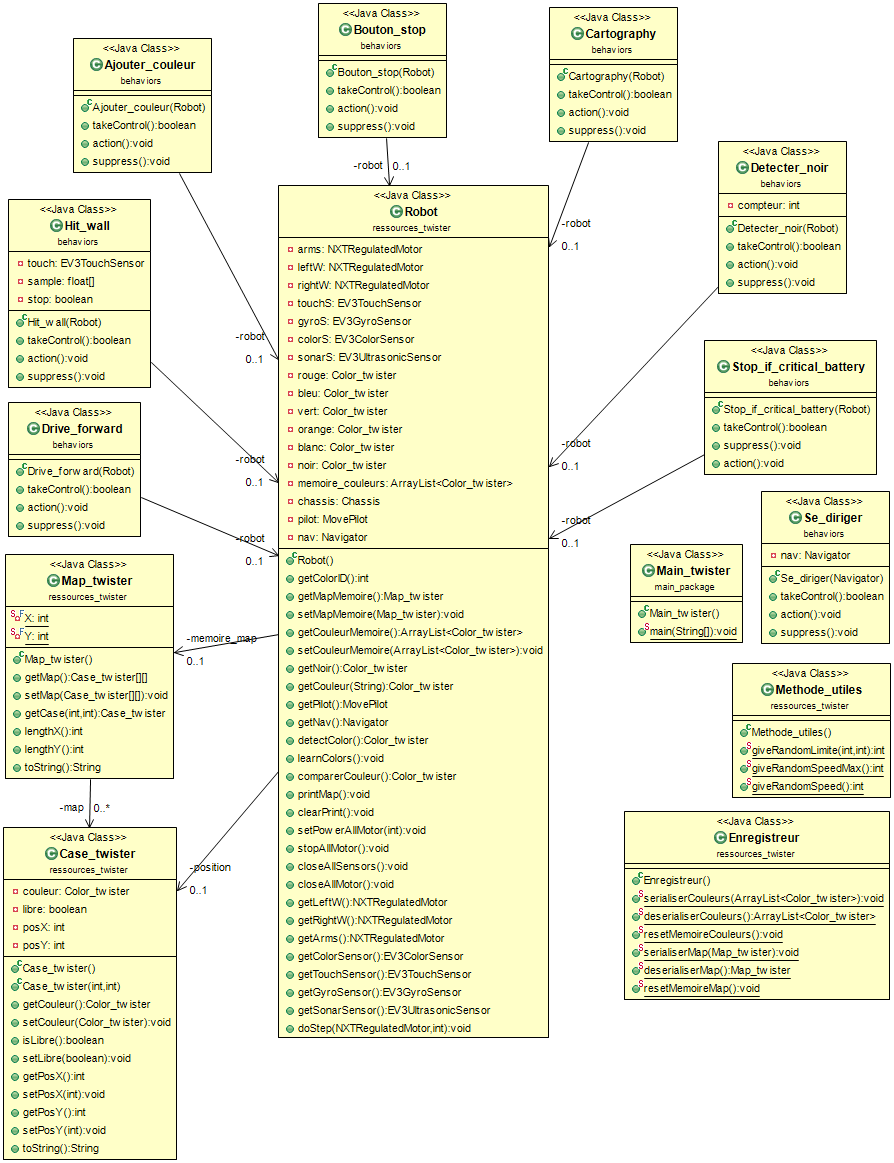
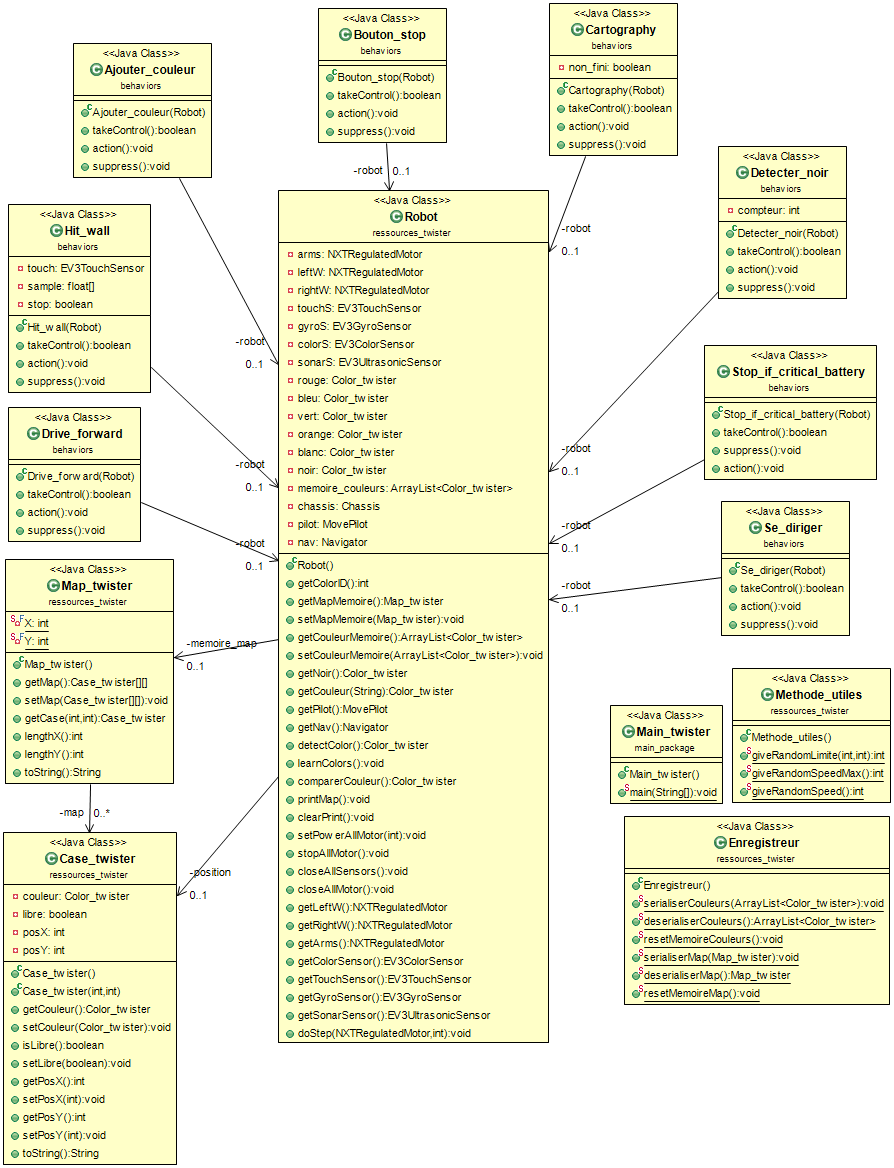
modif uml et comp se diriger

diff --git a/src/behaviors/Se_diriger.java b/src/behaviors/Se_diriger.java
@@ -3,15 +3,14 @@ package behaviors;
 import lejos.robotics.subsumption.Behavior;
 import lejos.hardware.Button;
 import lejos.hardware.lcd.LCD;
-import lejos.robotics.navigation.Navigator;
 import ressources_twister.Robot;
 
 public class Se_diriger implements Behavior {
 
-	private Navigator nav;
+	private Robot robot;
 	
-	public Se_diriger(Navigator n) {
-		this.nav = n;
+	public Se_diriger(Robot robot) {
+		this.robot=robot;
 	}
 	@Override
 	public boolean takeControl() {
@@ -22,17 +21,17 @@ public class Se_diriger implements Behavior {
 	@Override
 	public void action() {
 		for (int i=20; i<1000; i+=20){
-			nav.goTo(i,i);
+			this.robot.getNav().goTo(i,i);
 		}
 		
 		LCD.drawString("Arrive !",0,3);
-		//nav.stop();
+		//this.robot.getNav().stopAllMotor();
 	}
 
 	@Override
 	public void suppress() {
 		Button.RIGHT.isDown();
-		nav.stop();
+		this.robot.stopAllMotor();
 		
 	}
 
